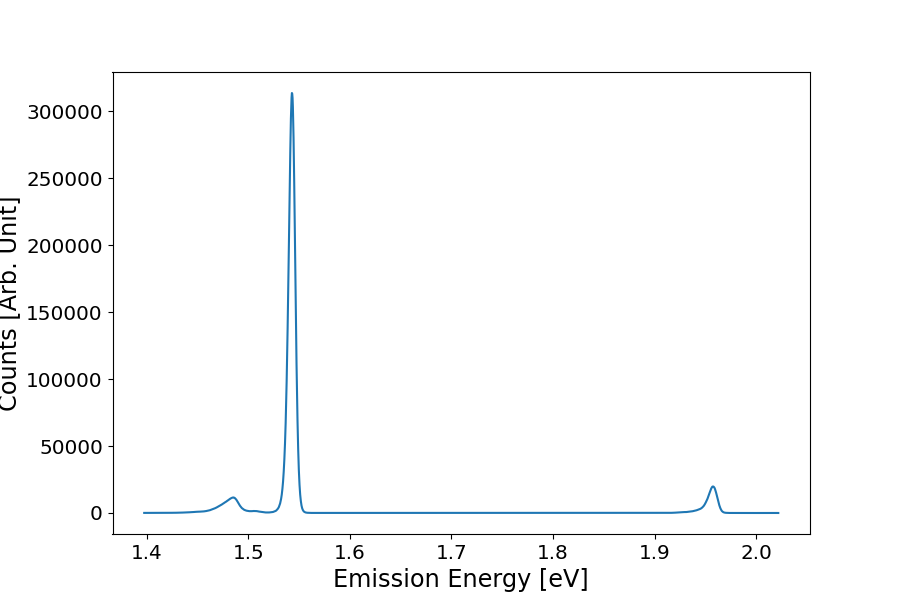
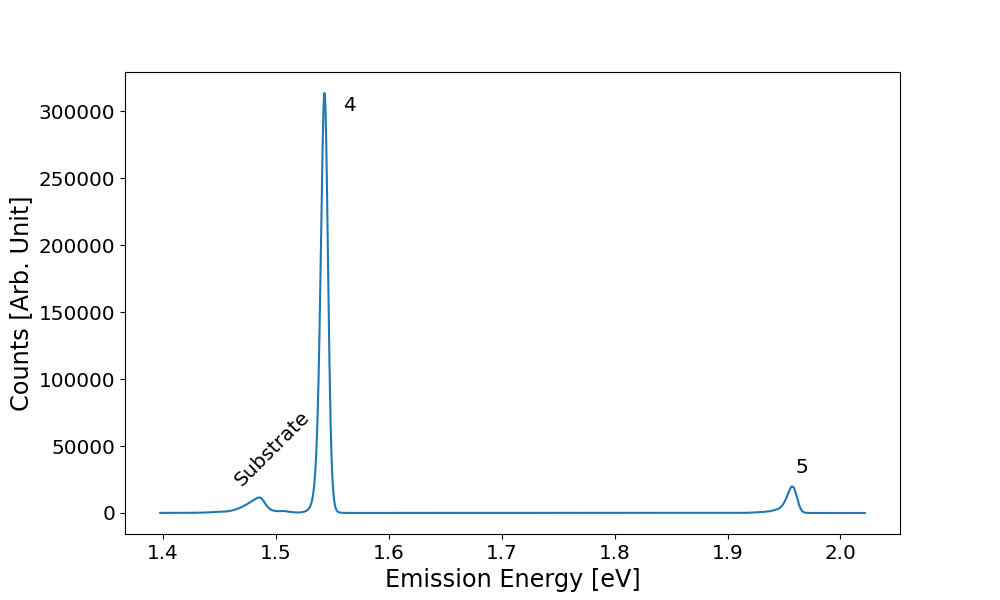
Added more indicators to PL figures.

diff --git a/PLE/Code/PL.py b/PLE/Code/PL.py
@@ -43,7 +43,7 @@ fileY720.close()
 
 ## Plot the data
 
-plt.figure(figsize = (9,6))
+plt.figure(figsize = (10,6))
 
 plt.xlabel("Emission Energy [eV]", fontsize = "xx-large")
 plt.ylabel("Counts [Arb. Unit]", fontsize = "xx-large")
@@ -62,13 +62,17 @@ plt.savefig('../Fig/PLX523nm.png')
 
 # ---
 
-plt.figure(figsize = (9,6))
+plt.figure(figsize = (10,6))
 
 plt.xlabel("Emission Energy [eV]", fontsize = "xx-large")
 plt.ylabel("Counts [Arb. Unit]", fontsize = "xx-large")
 plt.tick_params('both', labelsize="x-large")
 
 plt.plot(energyY523, countsY523)
+
+plt.text(1.46, 20000, "Substrate", fontsize = "x-large", rotation = 45)
+plt.text(1.56, 300000, "4", fontsize = "x-large")
+plt.text(1.96, 30000, "5", fontsize = "x-large")
 
 plt.savefig('../Fig/PLY523nm.png')
 #plt.show()
